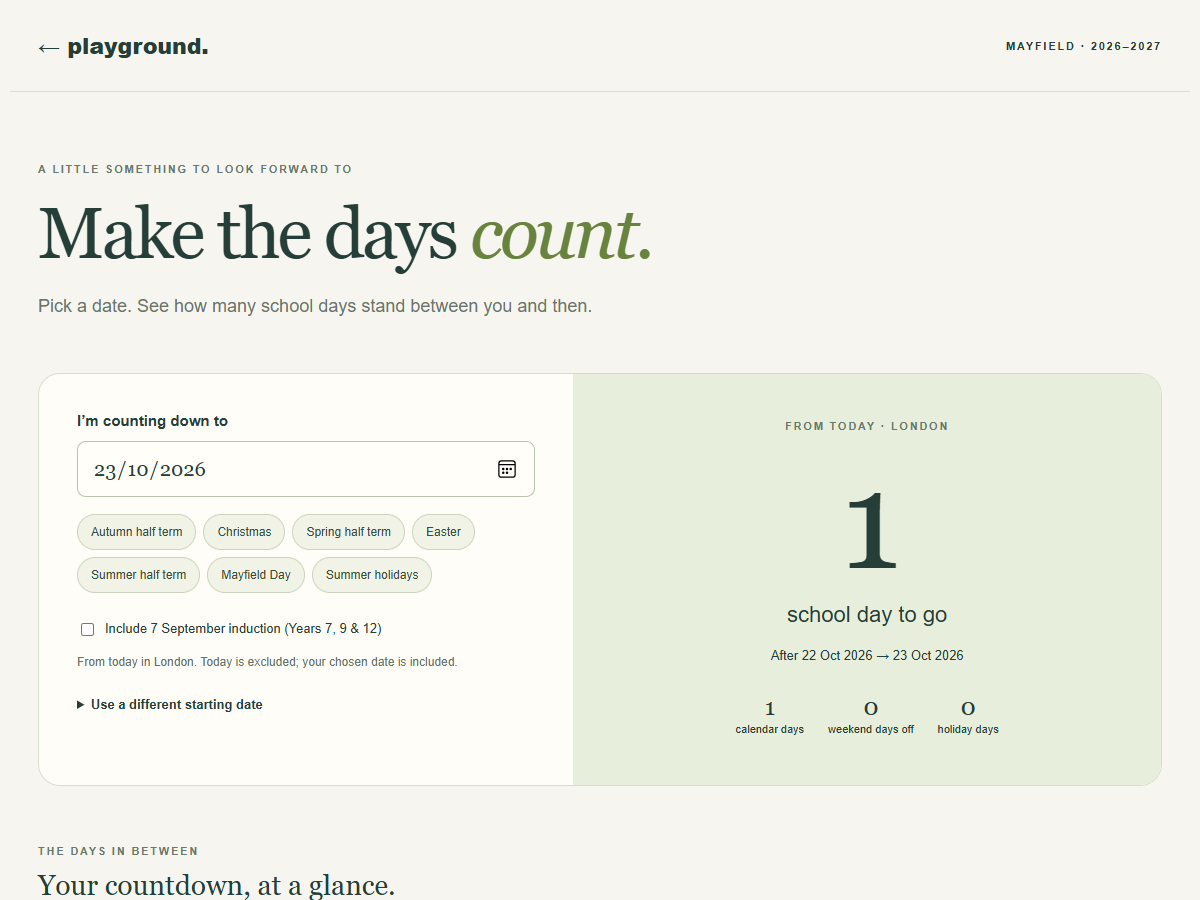
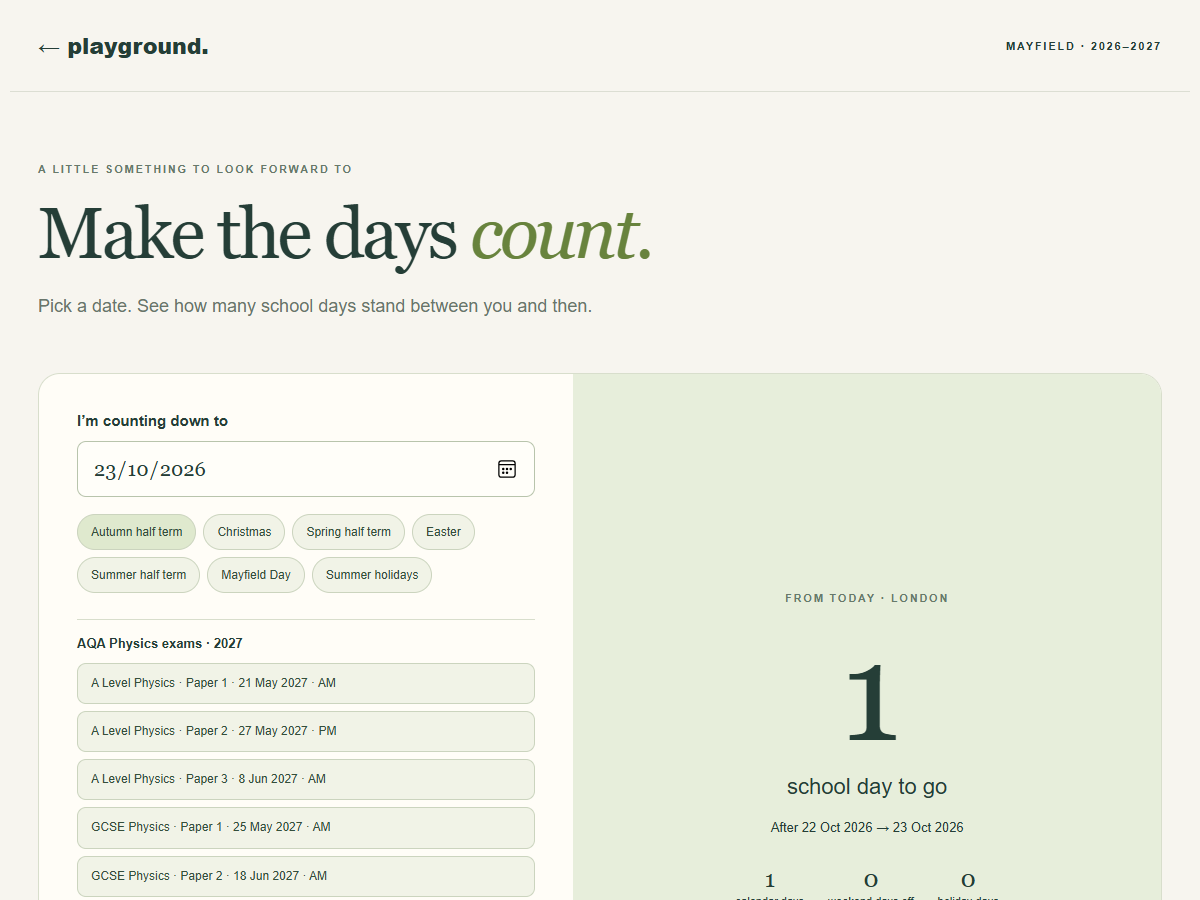
Add verified 2027 AQA Physics exam countdown shortcuts

diff --git a/school-days/style.css b/school-days/style.css
@@ -1,1 +1,2 @@
 *{box-sizing:border-box}body{margin:0;background:#f7f5ef;color:#253e37;font-family:Arial,Helvetica,sans-serif}header,main,footer{max-width:1180px;margin:auto}header{padding:30px 28px;display:flex;justify-content:space-between;align-items:center;border-bottom:1px solid #dcded3}a{color:inherit}header a{font-weight:800;text-decoration:none;font-size:22px}header span,.eyebrow{font-size:11px;letter-spacing:1.8px;font-weight:700}main{padding:0 28px}.intro{padding:60px 0 34px}.eyebrow{color:#67796b}.intro h1{font-family:Georgia,serif;font-size:clamp(44px,6vw,76px);font-weight:400;letter-spacing:-3px;margin:17px 0}.intro em{color:#68833d}.intro>p:last-child{color:#69756b;font-size:18px;line-height:1.6}.workspace{display:grid;grid-template-columns:1fr 1.1fr;border:1px solid #d8decc;border-radius:22px;overflow:hidden;background:#fffdf7}.controls{padding:38px}.controls>label:first-child,details label{display:block;font-size:15px;font-weight:bold;margin-bottom:12px}input[type=date]{display:block;width:100%;padding:15px;border:1px solid #b8c4ac;border-radius:9px;background:#fffef9;color:#253e37;font:20px Georgia,serif;color-scheme:light}.presets{display:flex;gap:7px;flex-wrap:wrap;margin:17px 0 26px}button{cursor:pointer;border:1px solid #cbd4be;border-radius:25px;padding:10px 13px;color:#344f3b;background:#f1f3e7;font:inherit;font-size:12px}button:hover{background:#dfe9ce}.check{display:flex;align-items:flex-start;gap:8px;font-size:13px;line-height:1.6}.check input{accent-color:#365743;margin-top:4px}.hint{font-size:12px;color:#657267;line-height:1.7}details{margin-top:22px;font-size:13px;line-height:1.7}summary{cursor:pointer;font-weight:bold}details label{margin-top:18px}#reset{margin-top:10px}.result{background:#e7eedb;text-align:center;padding:35px 24px;display:flex;flex-direction:column;justify-content:center;min-height:360px}#number{font:clamp(85px,12vw,140px)/1.1 Georgia,serif;letter-spacing:-7px}.result h2{font-size:22px;font-weight:400;margin:5px 0 12px}#range,#message{font-size:13px;line-height:1.7;margin:5px 0}#message{font-weight:bold}.stats{display:flex;justify-content:center;gap:24px;margin-top:20px}.stats strong{display:block;font:25px Georgia,serif}.stats span{font-size:11px;line-height:1.8}.calendar-section{padding:48px 0 20px}.section-top{display:flex;justify-content:space-between;align-items:end;gap:20px}.section-top h2{font:28px Georgia,serif;margin:12px 0}.legend{display:flex;flex-wrap:wrap;gap:12px;font-size:11px}.legend span{display:flex;gap:5px;align-items:center}i{display:inline-block;width:11px;height:11px;border-radius:3px}.school{background:#c7d9ae}.special{background:#e9bc67}.holiday{background:#e6e1d4}.weekend{background:#f1f0e9}#months{display:grid;grid-template-columns:repeat(3,1fr);gap:24px;margin-top:22px}.month{padding:20px;border:1px solid #dce0d2;border-radius:14px;background:#fffdf7}.month h3{font-size:14px;margin:0 0 18px}.grid{display:grid;grid-template-columns:repeat(7,1fr);gap:4px}.weekday{text-align:center;font-size:10px;color:#6b776c;padding-bottom:9px}.day{padding:0;aspect-ratio:1;border:0;border-radius:5px;color:#354c3d;font-size:12px;min-width:0}.day.outside{opacity:.32}.day.selected{outline:2px solid #315c43;outline-offset:1px}.day:hover{outline:2px solid #315c43}#day-detail{font-size:13px;min-height:18px}.notes{border-top:1px solid #d8decc;padding:22px 0;max-width:850px}.notes p{color:#58675c}.term-row{display:flex;justify-content:space-between;border-bottom:1px solid #dce0d2;padding:9px 0;gap:16px}footer{padding:25px 28px 35px;font-size:12px;display:flex;justify-content:space-between;color:#69756b}button:focus-visible,a:focus-visible,summary:focus-visible,input:focus-visible{outline:3px solid #8b702a;outline-offset:3px}@media(max-width:800px){#months{grid-template-columns:repeat(2,1fr)}.section-top{align-items:start;flex-direction:column}.workspace{grid-template-columns:1fr 1fr}.controls{padding:25px}.stats{gap:15px}}@media(max-width:560px){header{padding:23px 20px}header span{font-size:9px;letter-spacing:1px}main{padding:0 20px}.intro{padding-top:35px}.intro h1{letter-spacing:-2px}.workspace{grid-template-columns:1fr}.result{min-height:300px}.controls{padding:25px}#months{grid-template-columns:1fr}.month{padding:24px}.day{max-height:42px}.intro>p:last-child{font-size:16px}.term-row{flex-direction:column;gap:0}}
+.exam-shortcuts{border-top:1px solid #d8decc;padding-top:16px;margin:0 0 24px}.exam-shortcuts h2{font-size:13px;margin:0 0 12px}.exam-shortcuts button{display:block;width:100%;text-align:left;margin:7px 0;line-height:1.6;border-radius:9px}.exam-shortcuts .hint{margin-bottom:0}

diff --git a/school-days/app.js b/school-days/app.js
@@ -10,6 +10,39 @@ for (const [name,key] of milestones) {
   const button = document.createElement('button'); button.type='button'; button.textContent=name;
   button.addEventListener('click',()=>{$('target').value=key;render();}); $('presets').append(button);
 }
+const examPapers = [
+  ['A Level Physics · Paper 1', '2027-05-21', 'AM', '7408/1'],
+  ['A Level Physics · Paper 2', '2027-05-27', 'PM', '7408/2'],
+  ['A Level Physics · Paper 3', '2027-06-08', 'AM', '7408/3'],
+  ['GCSE Physics · Paper 1', '2027-05-25', 'AM', '8463/1F & 1H'],
+  ['GCSE Physics · Paper 2', '2027-06-18', 'AM', '8463/2F & 2H']
+];
+const examSection = document.createElement('section');
+examSection.className = 'exam-shortcuts';
+examSection.setAttribute('aria-label', 'AQA Physics exam dates 2027');
+const examHeading = document.createElement('h2');
+examHeading.textContent = 'AQA Physics exams · 2027';
+examSection.append(examHeading);
+for (const [name,key,session,code] of examPapers) {
+  const button = document.createElement('button');
+  button.type = 'button';
+  button.textContent = `${name} · ${format(key)} · ${session}`;
+  button.title = code;
+  button.addEventListener('click', () => { $('target').value = key; render(); });
+  examSection.append(button);
+}
+const examNote = document.createElement('p');
+examNote.className = 'hint';
+examNote.textContent = 'GCSE dates cover both Foundation and Higher tiers (separate Physics). Exam day is included in the countdown. Dates checked 22 October 2026. Sources: ';
+for (const [name,url] of [
+  ['AQA A Level', 'https://www.aqa.org.uk/subjects/physics/a-level/physics-7408/key-dates'],
+  ['AQA GCSE', 'https://www.aqa.org.uk/subjects/physics/gcse/physics-8463/key-dates']
+]) {
+  const link = document.createElement('a'); link.textContent = name; link.href = url;
+  examNote.append(link, ' ');
+}
+examSection.append(examNote);
+$('presets').after(examSection);
 function render() {
   const from=$('from').value, to=$('target').value, induction=$('induction').checked;
   let valid=false;
